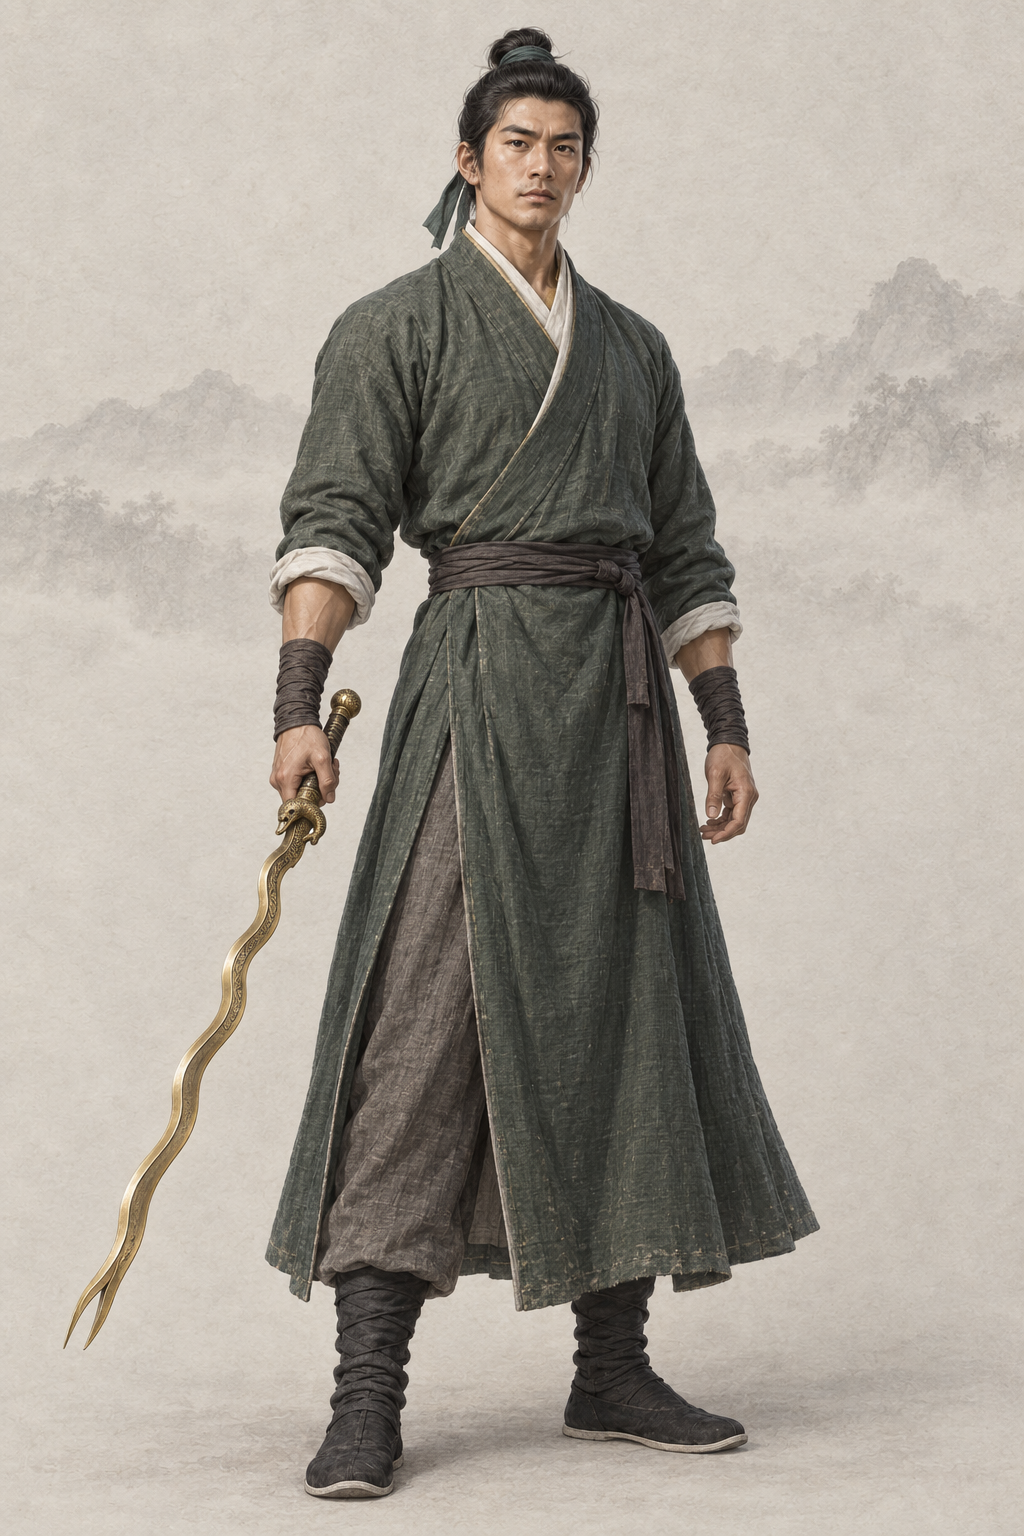
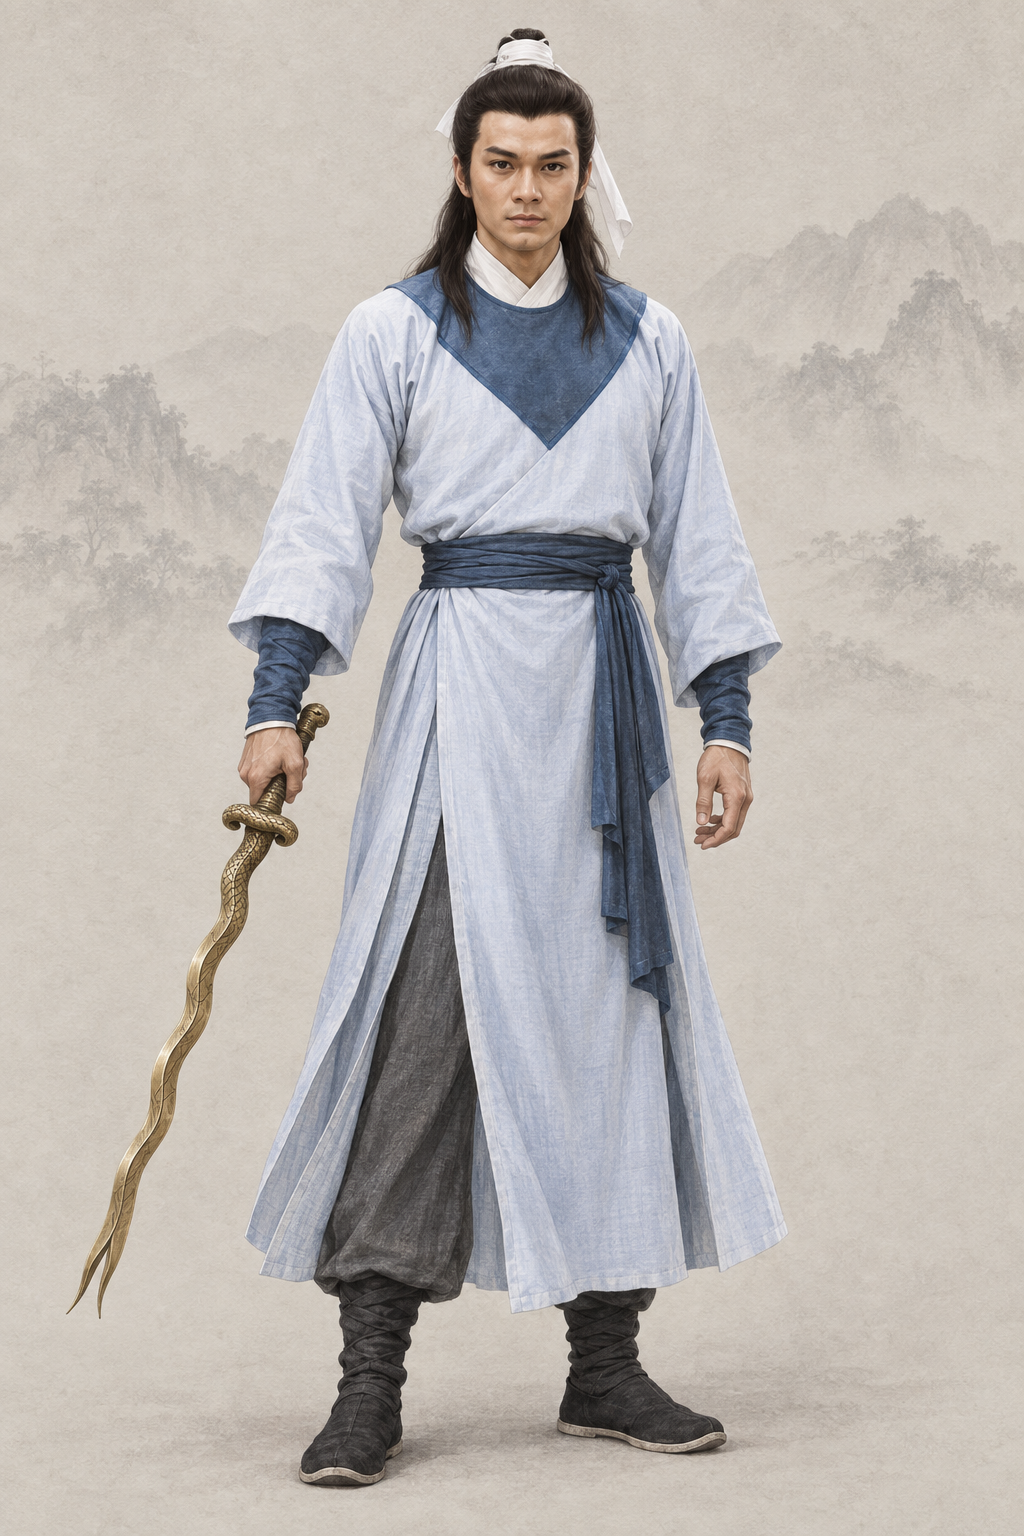
assets(character): por_npc_yuanchengzhi__ch07_youth_jinshe_base 袁承志（codex · AR-32 1985 TVB《碧血剑》 剧照 + 基线）
上传顺序：第 1–2 张为 1985 TVB《碧血剑》袁承志剧照（yuanchengzhi_1985_huangrihua_sina3.jpg 裁去水印；sina1.jpg 裁去旁人），最后两张为同性别基线；提示词写回、frontmatter 加 classic_ref。

diff --git a/assets/default/prompts/characters/ch07-bixue/npc_yuanchengzhi.md b/assets/default/prompts/characters/ch07-bixue/npc_yuanchengzhi.md
@@ -13,9 +13,28 @@ references:
     use: 本工作区 manifest 为 candidate，尚未获批；仅参考纸底、光线、笔触与设色，不沿用脸、体型、服饰和道具
 status: new
 redo_reason: "碧血剑男主角缺基础立绘（只有五张场景图）；场景图是飘逸长发的偶像小生脸，不合“忠厚稳重”的原著气质，按文字新建。"
-reference_upload:
-- assets/default/baseline/character/male/ref_npc_linghuchong__ch05_base01.png
 codex_prompt_rev: 2026-10-02
+reference_upload:
+- .agents/coord/imagegen-reference/identity-20261002/bixue/yuanchengzhi_1985_huangrihua_sina3.jpg
+- .agents/coord/imagegen-reference/identity-20261002/bixue/yuanchengzhi_1985_huangrihua_sina1.jpg
+- assets/default/baseline/character/male/ref_npc_linghuchong__ch05_base01.png
+- assets/default/baseline/character/male/ref_npc_xiaofeng__ch01_base01.png
+classic_ref:
+  version: 1985 TVB《碧血剑》
+  stills:
+  - .agents/coord/imagegen-reference/identity-20261002/bixue/yuanchengzhi_1985_huangrihua_sina3.jpg
+  - .agents/coord/imagegen-reference/identity-20261002/bixue/yuanchengzhi_1985_huangrihua_sina1.jpg
+  crop:
+    yuanchengzhi_1985_huangrihua_sina3.jpg:
+    - 0
+    - 0
+    - 300
+    - 385
+    yuanchengzhi_1985_huangrihua_sina1.jpg:
+    - 340
+    - 0
+    - 700
+    - 456
 ---
 
 <!-- full-coverage-import:current-policy:v1 -->
@@ -28,6 +47,28 @@ codex_prompt_rev: 2026-10-02
 # 袁承志 · 《碧血剑》（ch07）
 
 ## Gemini 提示词
+
+> 2026-10-02 AR-32 重出（8 号出图员，codex exec · image_gen）：主要角色参考经典造型加项目基线生成。上传顺序：第 1–2 张为 1985 TVB《碧血剑》袁承志剧照（yuanchengzhi_1985_huangrihua_sina3.jpg 裁去水印；sina1.jpg 裁去旁人），最后两张为同性别画风基线（缩小版 JPEG）。参考图只借造型、气质与面部特征，画面按项目画风重绘、不复制照片或像素图。上一版保留在下一节作历史。
+
+```text
+生成一张 2:3 竖幅全身人物立绘：单人、单一视角、完整全身——头顶、双手、双脚和手中器物的两端都在画面内，四周留出自然空白；人物站姿自然，身体基本朝向正面，头部端正（不歪头、不仰不俯），镜头平视。
+【参考图】第 1–2 张参考图是该角色经典影视造型的剧照：借鉴其发型、服饰、配色、标志道具、气质和面部特征，让人一眼认出是这个角色；但必须重新绘制成项目画风，不要照片质感，不要照搬剧照的构图、光影、背景和姿势，也不要做成照片修图。最后两张是本项目画风基线：画风、用色、光线、质感和暖浅灰纸底加淡水墨背景以它们为准。
+【剧照借鉴要点】取剧照里的发型（额前中分、头顶束髻系一条白色发巾、其余黑发披在肩后）、月白长衫配深蓝色 V 形宽领的样式和配色、浓眉大眼的方正俊朗脸型和沉稳坦诚的神情；剧照里的折扇不要，手里拿金蛇剑。姿势和构图按下文的全身立绘来画，不照搬剧照。
+【画风】写实手绘古风人物插画，与本项目写实武侠角色立绘同一画风，像功力深厚的画师用细腻笔触画出的真实人物。手绘插画质感，不是 CG 渲染：不要过度光滑的皮肤、完美对称的五官、塑料高光、过度锐利的发丝；保留自然的笔触和细微不完美。皮肤有真实质感——细小毛孔、细纹、晒痕和自然的左右不对称，不磨皮、不油亮；头发是一缕缕自然的发丝和少量碎发；布料看得出经纬纹理、厚薄和自然垂坠的褶皱，带穿用过的轻微旧化，但完整不破烂；整体设色低饱和、沉稳；柔和的自然光从左上方照来，明暗过渡自然，不打舞台光、轮廓光或美颜柔光。不是照片，不是三维渲染，不是动漫或游戏 CG，也不是油画（没有厚涂笔触和画布纹理）。
+【背景】不透明的暖浅灰色纸底，只在远处有极淡的水墨远山和薄雾，大面积留白；人物与背景明暗分明、轮廓边缘干净完整（后续要自动抠图），水墨和纸纹只在背景里，不侵入人物和衣服；脚下只有很淡的一点接触阴影。
+【人物】袁承志，《碧血剑》男主角，蓟辽督师袁崇焕之子、华山派穆人清的弟子；华山学成下山、已得到「金蛇郎君」夏雪宜遗物与武功传承的时期（明末崇祯年间）。
+【年龄与体态】约二十二岁的成年青年男子，身材高大挺拔、肩背宽厚结实，四肢有多年在华山习武的力量，但不是夸张的健美肌肉。
+【经典造型】八十年代经典港剧里的袁承志：额前中分、头顶束髻系白色发巾、长发披肩，一身月白长衫配深蓝 V 形宽领，手持弯曲如蛇的金蛇剑；浓眉朗目、方正英挺，正气、沉稳、可托付，英俊而不是奶油小生。
+【面容】按剧照：方正偏长的脸，额头宽阔，下颌宽而有力；眉毛浓黑平直；眼睛明亮有神（自然大小），目光沉稳坦诚；鼻梁挺直；嘴唇厚薄适中，紧抿时显得坚毅；肤色是健康的浅麦色。英俊、正直、稳重，有点少年老成。
+【发式】额前中分，头顶挽一个发髻、系一条白色发巾（巾尾垂在脑后），其余黑发披在肩后，两鬓垂下几缕。
+【服饰】明末江湖行装：月白色交领窄袖长衫（右衽，左襟压右襟），胸前和肩上覆一块深蓝色的 V 形宽领（像一件短披领）；深蓝色腰带；灰色长裤；黑布靴。内穿的金丝背心只在领口隐约露出一线，不要画成外露的金甲。
+【道具】右手持金蛇剑——一柄金色的奇形宝剑，剑身弯曲如游动的蛇，剑尖分叉如蛇信，剑尖斜指地面；左手自然下垂。
+【姿态与神情】端正站立，英挺沉稳。
+【不要】画面里不要任何文字、题款、印章、签名、水印、边框、分格或多视图；不要第二个人；不要幼态（童颜、娃娃脸、婴儿肥、儿童或少年身材、大头小身）；不要塑料感皮肤、磨皮美颜、网红脸（尖下巴大眼高鼻的模板脸）、过度对称、浓妆、偶像式打光、蜡像感；不要照片质感，不要像剧照照片、照片修图或拼贴，不要照搬剧照的背景、光影、构图和姿势；不要三维渲染或动漫大眼；不要歪头、斜镜头；不要多指、缺指（设定的伤残除外）、手与器物粘连或悬空；衣襟必须右衽（穿着者的左襟压在右襟上），不要左衽（设定为少数民族服制的除外），不要水平镜像；不要现代物品、发光特效、法阵或能量光。不要偶像小生脸、瘦削文弱；不要折扇；不要和令狐冲同一张脸；不要真蛇缠身；不要清代剃发留辫。
+【画风基线】随提示词上传的参考图里，最后两张是本项目的立绘画风基线：只参考它们的画风、用色、光线、质感和暖浅灰纸底加淡水墨的背景处理，整体画风必须与它们一致——精细写实的数字手绘插画，不是油画，不要厚涂笔触和画布纹理。基线图只取画风，不取长相：不要照搬基线图里人物的长相、年龄、发型、服饰和姿势。
+```
+
+## AR-31 文字版 Gemini 提示词（2026-10-02 凌晨；AR-32 重出之前，历史，不再用于出图）
 
 > 2026-10-02 Codex 人物线 2 号（AR-31）：在审核组稿上补一行「经典形象」（借鉴公认经典造型的发式、装束、配色、标志道具与气质，只写文字，不写演员名、不上传剧照），并补去 AI 化要求。本轮出图用下面第一个代码块；审核组原稿保留在其后的「审核组原稿」小节作历史。
 
